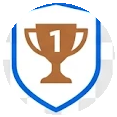
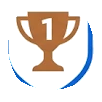
fix: emprolija los iconos de logros y agrega detalle al tocar una medalla
Los iconos del sheet original traian un disco blanco + anillo azul "de
fabrica" (quedaba como un sticker pegado encima de la tarjeta oscura, no
como un icono mas del sitio). Les saco ese disco y anillo -recorte
geometrico por erosion del canal alfa, no por color, porque el borde del
propio dibujo (ej. el escudo de los logros de club) a veces comparte el
mismo azul del anillo- y dejo solo el glifo a color sobre fondo
transparente. El circulo prolijo que se ve ahora alrededor de cada uno lo
pone LogrosSection en React (bg-primary/10, el mismo lenguaje que ya usa
el resto del sitio), no la imagen.

Ademas cada medalla ahora es un boton: tocarla abre el Modal compartido
de siempre con el nombre, la descripcion y "Conseguida en <campeonato>"
(o "todavia no la desbloqueo" si sigue grisada). Antes esto vivia nada
mas que en el title nativo (solo hover, inutil en celular).

LogroDef/LOGROS y los tipos del historial se movieron a un archivo nuevo
(logros-catalogo.ts): logros.ts importa prisma, y el componente cliente
del modal no puede arrastrar eso a su bundle sin romper el build.

diff --git a/src/lib/logros.ts b/src/lib/logros.ts
@@ -1,79 +1,23 @@
 import { prisma } from "@/lib/db";
 import { getRankingGeneral } from "@/lib/ranking-general";
+import { LOGROS, type LogroHistorialEntry, type LogroRegatistaInfo, type LogroDesbloqueado } from "@/lib/logros-catalogo";
 
-// Sistema de medallas/logros del perfil de regatista. La mayoría se
-// calculan en el momento a partir del propio historial (ya lo trae armado
-// /regatistas/[id]), sin tocar la base -los pocos que necesitan comparar
-// contra OTROS regatistas (campeón de clase, primero del club) hacen sus
-// propias consultas puntuales, acotadas a lo que hace falta.
+// Lógica de cálculo del sistema de medallas/logros del perfil de
+// regatista. La mayoría se calculan en el momento a partir del propio
+// historial (ya lo trae armado /regatistas/[id]), sin tocar la base -los
+// pocos que necesitan comparar contra OTROS regatistas (campeón de clase,
+// primero del club) hacen sus propias consultas puntuales, acotadas a lo
+// que hace falta.
 //
 // No hay una tabla Logro en la base: se recalculan en cada visita al
 // perfil (mismo revalidate=60 que ya tiene la página) en vez de guardar un
 // estado que habría que mantener sincronizado cada vez que se edita o
 // elimina un resultado.
-
-export interface LogroDef {
-  id: string;
-  nombre: string;
-  descripcion: string;
-  icono: string; // nombre de archivo en /public/logros
-}
-
-export const LOGROS: LogroDef[] = [
-  { id: "debut", nombre: "Debut", descripcion: "Primera regata disputada", icono: "debut.png" },
-  { id: "primeros-puntos", nombre: "Primeros puntos", descripcion: "Primera vez entre los 10 primeros", icono: "primeros-puntos.png" },
-  { id: "primer-podio", nombre: "Primer podio", descripcion: "Primera vez en el 1°, 2° o 3° puesto", icono: "primer-podio.png" },
-  { id: "primera-victoria", nombre: "Primera victoria", descripcion: "Primer 1° puesto", icono: "primera-victoria.png" },
-  { id: "campeon-clase", nombre: "Campeón de clase", descripcion: "1° en el ranking anual de una clase", icono: "campeon-clase.png" },
-  { id: "mejora-constante", nombre: "Mejora constante", descripcion: "Mejoró su posición en 3 campeonatos seguidos", icono: "mejor-puntaje.png" },
-  { id: "racha-podios", nombre: "Racha de podios", descripcion: "Podio en 3 o más regatas seguidas de un mismo campeonato", icono: "racha-podios.png" },
-  { id: "remontada", nombre: "Remontada", descripcion: "Arrancó fuera del top 10 y terminó en podio", icono: "remontada.png" },
-  { id: "doblete-triplete", nombre: "Doblete/Triplete", descripcion: "Ganó el mismo campeonato 2 o más años distintos", icono: "doblete-triplete.png" },
-  { id: "veterano", nombre: "Veterano", descripcion: "50 regatas disputadas", icono: "veterano.png" },
-  { id: "trayectoria-larga", nombre: "Trayectoria larga", descripcion: "Compitió en 5 o más temporadas distintas", icono: "trayectoria-larga.png" },
-  { id: "regular", nombre: "Regular", descripcion: "3 o más campeonatos en un mismo año", icono: "regular.png" },
-  { id: "sin-descartes", nombre: "Sin descartes feos", descripcion: "Nunca descartó un resultado fuera del top 10", icono: "sin-descartes.png" },
-  { id: "multiclase", nombre: "Multiclase", descripcion: "Compitió en 3 o más clases distintas", icono: "multiclase.png" },
-  { id: "podio-multiclase", nombre: "Podio multiclase", descripcion: "Hizo podio en 2 o más clases distintas", icono: "podio-multiclase.png" },
-  { id: "dos-colores", nombre: "Dos colores", descripcion: "Compitió representando 2 o más clubes", icono: "dos-colores.png" },
-  { id: "primer-podio-club", nombre: "Primer podio del club", descripcion: "Primer regatista de su club en pisar un podio", icono: "primer-podio-club.png" },
-  { id: "primer-campeon-club", nombre: "Primer campeón del club", descripcion: "Primer 1° puesto para su club", icono: "primer-campeon-club.png" },
-  { id: "margen-amplio", nombre: "Margen amplio", descripcion: "Ganó un campeonato por una diferencia de puntos grande", icono: "margen-amplio.png" },
-  { id: "capitan-timon", nombre: "Capitán del timón", descripcion: "100 regatas disputadas", icono: "capitan-timon.png" },
-  { id: "imbatible", nombre: "Imbatible", descripcion: "Ganó todas las regatas de un campeonato", icono: "imbatible.png" },
-];
-
-export interface LogroResultadoRegata {
-  regataNumero: number;
-  puesto: number;
-  descartado: boolean;
-}
-
-export interface LogroHistorialEntry {
-  campeonatoId: string;
-  campeonatoNombre: string;
-  evento: string | null;
-  claseId: string;
-  anio: number;
-  fecha: Date;
-  posicion: number;
-  totalInscriptos: number;
-  // Solo presente cuando ganó (posicion === 1): diferencia de puntos netos
-  // respecto al 2° puesto -null si no ganó o si no se pudo calcular.
-  diferenciaSegundo: number | null;
-  resultados: LogroResultadoRegata[];
-}
-
-export interface LogroRegatistaInfo {
-  id: string;
-  clubId: string | null;
-  otrosClubesIds: string[];
-}
-
-export interface LogroDesbloqueado {
-  id: string;
-  detalle: string;
-}
+//
+// El catálogo (LOGROS, los tipos) vive en logros-catalogo.ts, no acá: este
+// archivo importa prisma, y LogrosSection (componente cliente) necesita el
+// catálogo sin arrastrar eso al bundle del navegador.
+export { LOGROS, type LogroHistorialEntry, type LogroRegatistaInfo, type LogroDesbloqueado };
 
 const UMBRAL_MARGEN_AMPLIO = 10; // puntos netos de diferencia con el 2° puesto
 const UMBRAL_INSCRIPTOS_MARGEN = 5; // evita falsos positivos en flotas chicas

diff --git a/src/lib/logros-catalogo.ts b/src/lib/logros-catalogo.ts
@@ -1,0 +1,69 @@
+// Catálogo y tipos del sistema de medallas, separados de logros.ts a
+// propósito: ese archivo importa prisma (server-only, arrastra "pg") y
+// LogrosSection (componente cliente, para el modal de detalle al tocar una
+// medalla) necesita el catálogo sin arrastrar nada de eso al bundle del
+// navegador. Si algo de acá vuelve a depender de prisma, se rompe el build
+// del cliente otra vez.
+
+export interface LogroDef {
+  id: string;
+  nombre: string;
+  descripcion: string;
+  icono: string; // nombre de archivo en /public/logros
+}
+
+export const LOGROS: LogroDef[] = [
+  { id: "debut", nombre: "Debut", descripcion: "Primera regata disputada", icono: "debut.png" },
+  { id: "primeros-puntos", nombre: "Primeros puntos", descripcion: "Primera vez entre los 10 primeros", icono: "primeros-puntos.png" },
+  { id: "primer-podio", nombre: "Primer podio", descripcion: "Primera vez en el 1°, 2° o 3° puesto", icono: "primer-podio.png" },
+  { id: "primera-victoria", nombre: "Primera victoria", descripcion: "Primer 1° puesto", icono: "primera-victoria.png" },
+  { id: "campeon-clase", nombre: "Campeón de clase", descripcion: "1° en el ranking anual de una clase", icono: "campeon-clase.png" },
+  { id: "mejora-constante", nombre: "Mejora constante", descripcion: "Mejoró su posición en 3 campeonatos seguidos", icono: "mejor-puntaje.png" },
+  { id: "racha-podios", nombre: "Racha de podios", descripcion: "Podio en 3 o más regatas seguidas de un mismo campeonato", icono: "racha-podios.png" },
+  { id: "remontada", nombre: "Remontada", descripcion: "Arrancó fuera del top 10 y terminó en podio", icono: "remontada.png" },
+  { id: "doblete-triplete", nombre: "Doblete/Triplete", descripcion: "Ganó el mismo campeonato 2 o más años distintos", icono: "doblete-triplete.png" },
+  { id: "veterano", nombre: "Veterano", descripcion: "50 regatas disputadas", icono: "veterano.png" },
+  { id: "trayectoria-larga", nombre: "Trayectoria larga", descripcion: "Compitió en 5 o más temporadas distintas", icono: "trayectoria-larga.png" },
+  { id: "regular", nombre: "Regular", descripcion: "3 o más campeonatos en un mismo año", icono: "regular.png" },
+  { id: "sin-descartes", nombre: "Sin descartes feos", descripcion: "Nunca descartó un resultado fuera del top 10", icono: "sin-descartes.png" },
+  { id: "multiclase", nombre: "Multiclase", descripcion: "Compitió en 3 o más clases distintas", icono: "multiclase.png" },
+  { id: "podio-multiclase", nombre: "Podio multiclase", descripcion: "Hizo podio en 2 o más clases distintas", icono: "podio-multiclase.png" },
+  { id: "dos-colores", nombre: "Dos colores", descripcion: "Compitió representando 2 o más clubes", icono: "dos-colores.png" },
+  { id: "primer-podio-club", nombre: "Primer podio del club", descripcion: "Primer regatista de su club en pisar un podio", icono: "primer-podio-club.png" },
+  { id: "primer-campeon-club", nombre: "Primer campeón del club", descripcion: "Primer 1° puesto para su club", icono: "primer-campeon-club.png" },
+  { id: "margen-amplio", nombre: "Margen amplio", descripcion: "Ganó un campeonato por una diferencia de puntos grande", icono: "margen-amplio.png" },
+  { id: "capitan-timon", nombre: "Capitán del timón", descripcion: "100 regatas disputadas", icono: "capitan-timon.png" },
+  { id: "imbatible", nombre: "Imbatible", descripcion: "Ganó todas las regatas de un campeonato", icono: "imbatible.png" },
+];
+
+export interface LogroResultadoRegata {
+  regataNumero: number;
+  puesto: number;
+  descartado: boolean;
+}
+
+export interface LogroHistorialEntry {
+  campeonatoId: string;
+  campeonatoNombre: string;
+  evento: string | null;
+  claseId: string;
+  anio: number;
+  fecha: Date;
+  posicion: number;
+  totalInscriptos: number;
+  // Solo presente cuando ganó (posicion === 1): diferencia de puntos netos
+  // respecto al 2° puesto -null si no ganó o si no se pudo calcular.
+  diferenciaSegundo: number | null;
+  resultados: LogroResultadoRegata[];
+}
+
+export interface LogroRegatistaInfo {
+  id: string;
+  clubId: string | null;
+  otrosClubesIds: string[];
+}
+
+export interface LogroDesbloqueado {
+  id: string;
+  detalle: string;
+}

diff --git a/src/components/ui/logros-section.tsx b/src/components/ui/logros-section.tsx
@@ -1,0 +1,84 @@
+"use client";
+
+import { useState } from "react";
+import Image from "next/image";
+import { cn } from "@/lib/utils";
+import { Modal } from "@/components/ui/modal";
+import { LOGROS, type LogroDef, type LogroDesbloqueado } from "@/lib/logros-catalogo";
+
+interface LogrosSectionProps {
+  logros: LogroDesbloqueado[];
+}
+
+// Grilla de las 21 medallas del perfil + el modal de detalle que se abre al
+// tocar una. Un solo Modal compartido (no uno por medalla) controlado por
+// cuál está seleccionada -más liviano que montar 21 modales por las dudas.
+//
+// El ícono ya trae su propio color (dorado/azul/bronce según el logro) en
+// vez de currentColor: no hace falta un circulo de fondo con texture propia
+// -el circulo bg-primary/10 de atrás es solo el mismo lenguaje que ya usa
+// el resto del sitio para "ícono dentro de un círculo" (ver el placeholder
+// de foto de perfil en /regatistas/[id] o el badge de la 404), no un color
+// por-logro.
+export function LogrosSection({ logros }: LogrosSectionProps) {
+  const desbloqueados = new Map(logros.map((l) => [l.id, l]));
+  const [seleccionado, setSeleccionado] = useState<LogroDef | null>(null);
+  const detalle = seleccionado ? desbloqueados.get(seleccionado.id) : undefined;
+
+  return (
+    <>
+      <div className="flex flex-wrap gap-x-2 gap-y-4 sm:gap-x-4">
+        {LOGROS.map((logro) => {
+          const d = desbloqueados.get(logro.id);
+          return (
+            <button
+              key={logro.id}
+              type="button"
+              onClick={() => setSeleccionado(logro)}
+              aria-label={`Ver detalle del logro ${logro.nombre}`}
+              className="group flex flex-col items-center gap-1.5 text-center w-20 sm:w-24 rounded-xl p-1 -m-1 focus:outline-none focus-visible:ring-2 focus-visible:ring-primary"
+            >
+              <div
+                className={cn(
+                  "relative h-14 w-14 sm:h-16 sm:w-16 shrink-0 rounded-full bg-primary/10 transition-transform group-hover:scale-105 group-active:scale-95",
+                  !d && "opacity-40 grayscale"
+                )}
+              >
+                <Image src={`/logros/${logro.icono}`} alt="" fill sizes="64px" className="object-contain p-2.5" />
+              </div>
+              <span className={cn("text-[11px] sm:text-xs font-medium leading-tight", d ? "text-foreground" : "text-muted-foreground")}>
+                {logro.nombre}
+              </span>
+            </button>
+          );
+        })}
+      </div>
+
+      <Modal isOpen={!!seleccionado} onClose={() => setSeleccionado(null)} className="w-full max-w-sm">
+        {seleccionado && (
+          <div className="p-6 text-center space-y-4">
+            <div
+              className={cn(
+                "relative h-20 w-20 mx-auto rounded-full bg-primary/10",
+                !detalle && "opacity-40 grayscale"
+              )}
+            >
+              <Image src={`/logros/${seleccionado.icono}`} alt="" fill sizes="80px" className="object-contain p-3.5" />
+            </div>
+            <div>
+              <h3 className="text-lg font-bold">{seleccionado.nombre}</h3>
+              <p className="text-sm text-muted-foreground mt-1">{seleccionado.descripcion}</p>
+            </div>
+            {detalle ? (
+              <p className="text-sm font-medium text-primary">
+                {detalle.detalle ? `Conseguida en ${detalle.detalle}` : "¡Conseguida!"}
+              </p>
+            ) : (
+              <p className="text-sm text-muted-foreground italic">Todavía no la desbloqueó</p>
+            )}
+          </div>
+        )}
+      </Modal>
+    </>
+  );
+}

diff --git a/src/app/regatistas/[id]/page.tsx b/src/app/regatistas/[id]/page.tsx
@@ -13,7 +13,7 @@ import { ArrowLeftIcon, TrophyIcon, MapPinIcon, CalendarIcon, MedalIcon, UserIco
 import { ExcelDownloadButton } from "@/components/ui/excel-download-button";
 import { jsonLdSeguro } from "@/lib/json-ld";
 import { LOGROS, calcularLogros, type LogroHistorialEntry } from "@/lib/logros";
-import { LogroBadge } from "@/components/ui/logro-badge";
+import { LogrosSection } from "@/components/ui/logros-section";
 
 // Mismo caso que /campeonatos/[id]: sin esto, el perfil queda cacheado
 // estático para siempre después de la primera visita -si esa persona
@@ -160,7 +160,6 @@ export default async function RegatistaProfilePage({ params }: Props) {
   }
 
   const { regatista, historial, chartData, logros } = data;
-  const logrosDesbloqueados = new Map(logros.map((l) => [l.id, l]));
 
   const jsonLd = {
     "@context": "https://schema.org",
@@ -244,20 +243,16 @@ export default async function RegatistaProfilePage({ params }: Props) {
             ))}
           </div>
         )}
-        {logrosDesbloqueados.size > 0 && (
+        {logros.length > 0 && (
           <Card className="bg-surface border-border">
             <CardHeader>
               <CardTitle className="text-xl">Logros</CardTitle>
               <CardDescription>
-                {logrosDesbloqueados.size} de {LOGROS.length} desbloqueados
+                {logros.length} de {LOGROS.length} desbloqueados — tocá una medalla para ver el detalle
               </CardDescription>
             </CardHeader>
             <CardContent>
-              <div className="flex flex-wrap gap-x-2 gap-y-4 sm:gap-x-4">
-                {LOGROS.map((logro) => (
-                  <LogroBadge key={logro.id} logro={logro} desbloqueado={logrosDesbloqueados.get(logro.id)} />
-                ))}
-              </div>
+              <LogrosSection logros={logros} />
             </CardContent>
           </Card>
         )}
